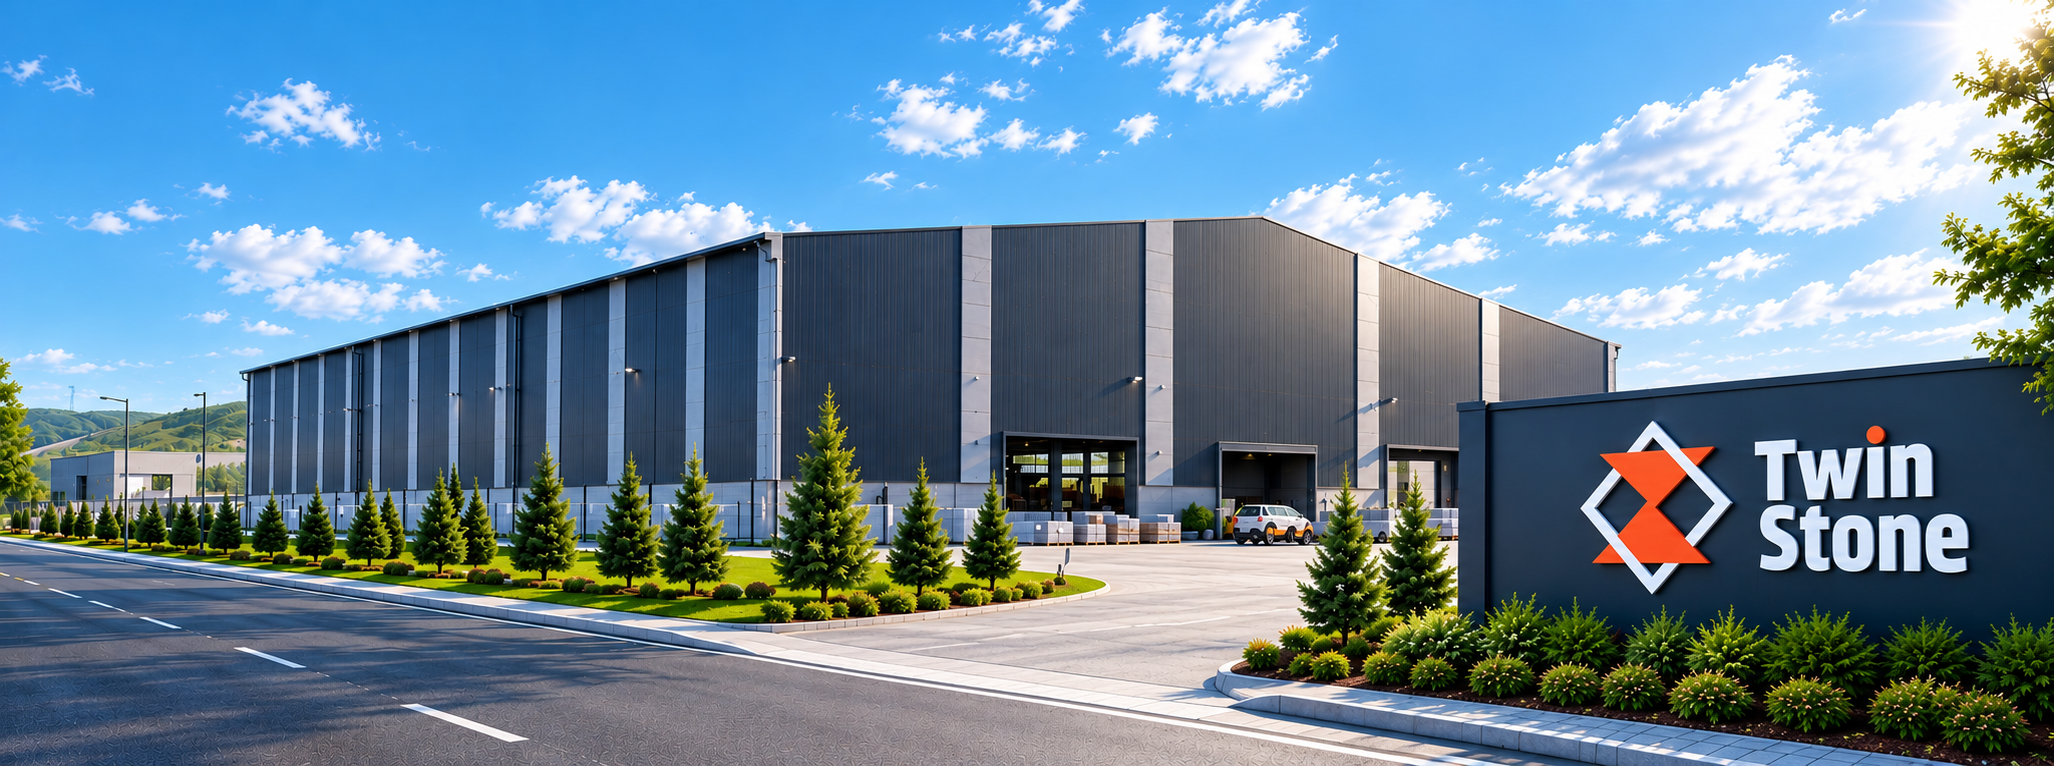
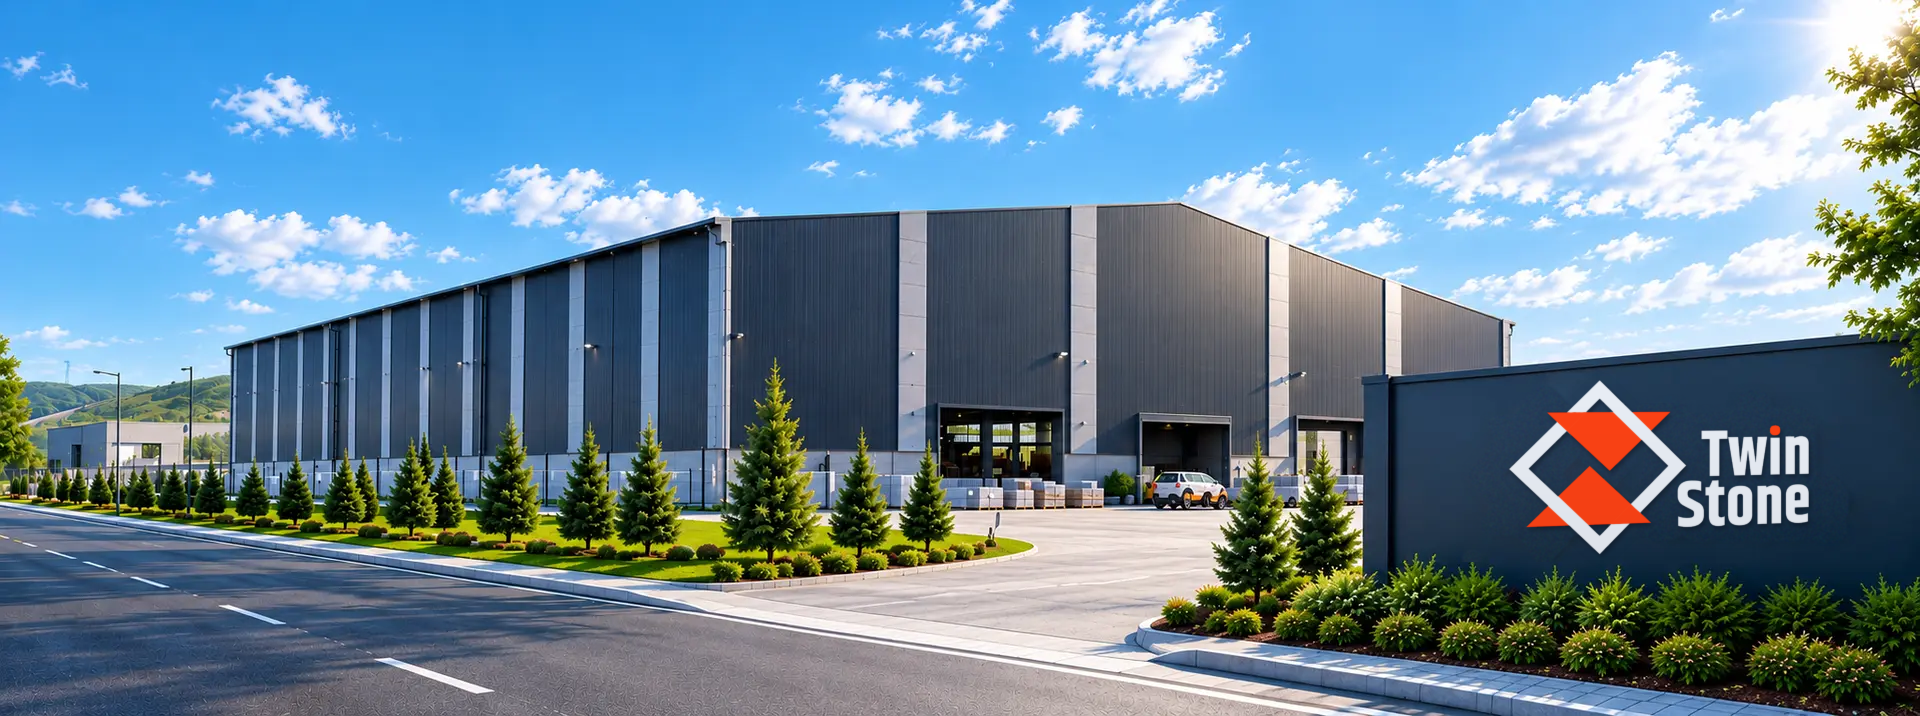
Replace factory photo in location section

diff --git a/components/ProjectsMap.tsx b/components/ProjectsMap.tsx
@@ -25,8 +25,8 @@ export default function ProjectsMap() {
           <Image
             src="/images/twinstone-fabric-navoiy.png"
             alt={t("map.fabricAlt")}
-            width={2054}
-            height={766}
+            width={1920}
+            height={716}
             sizes="100vw"
             className="h-auto w-full"
           />
